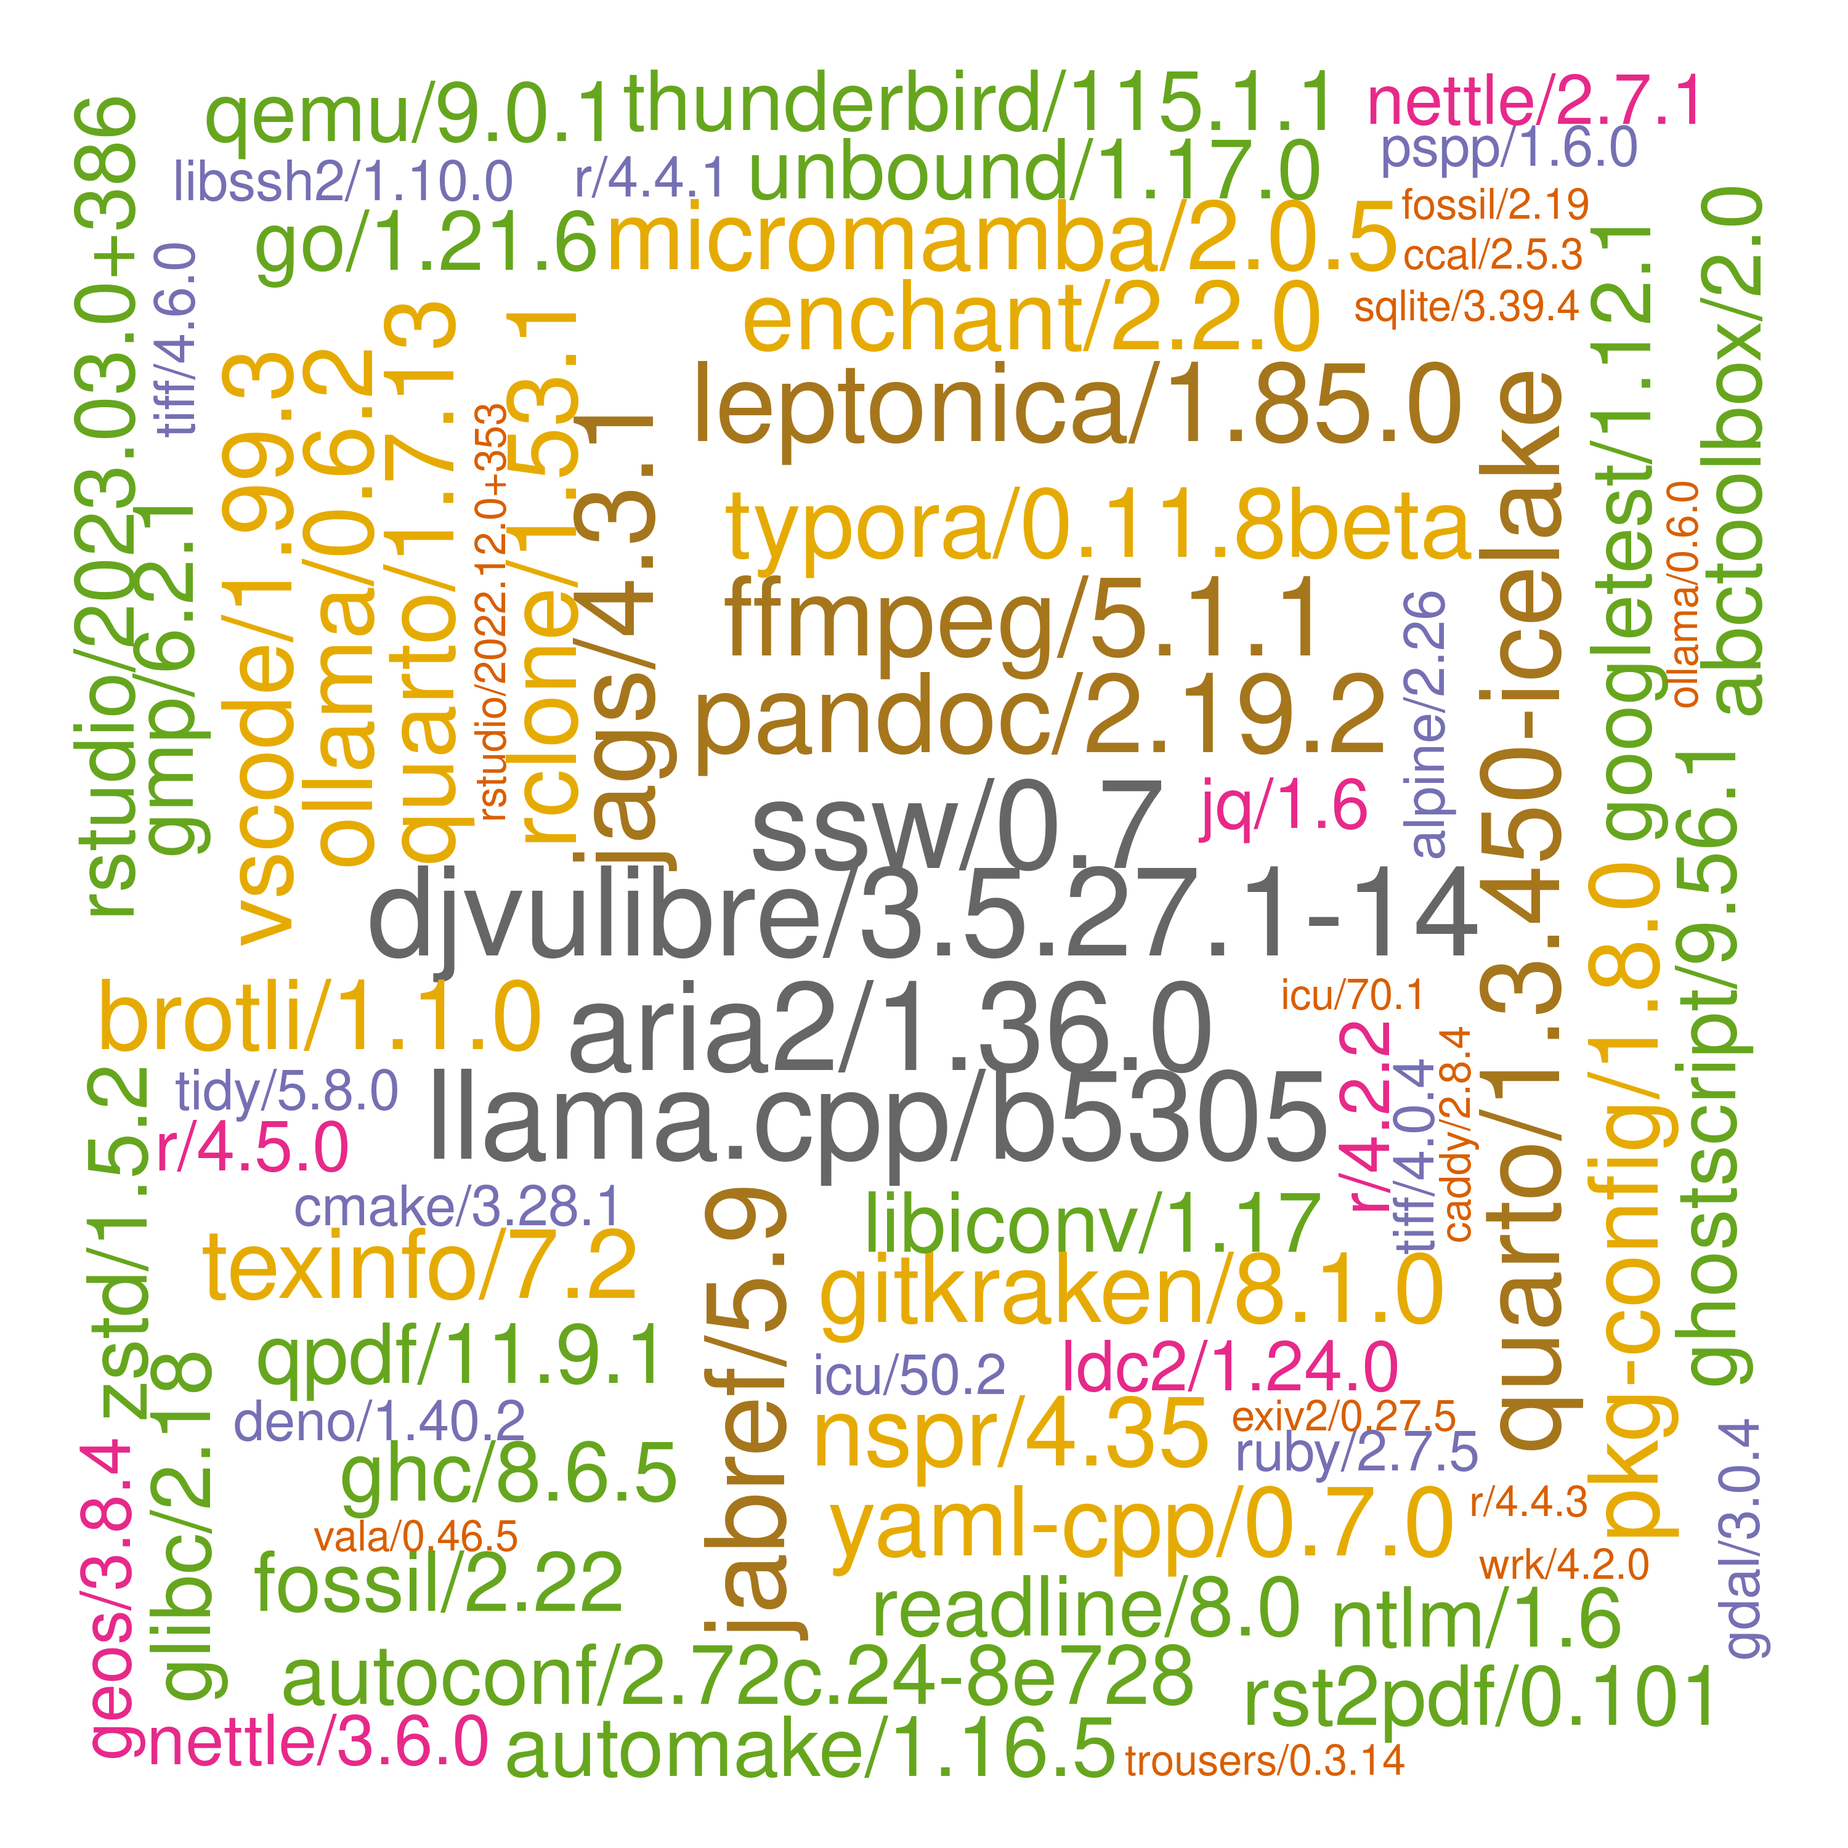
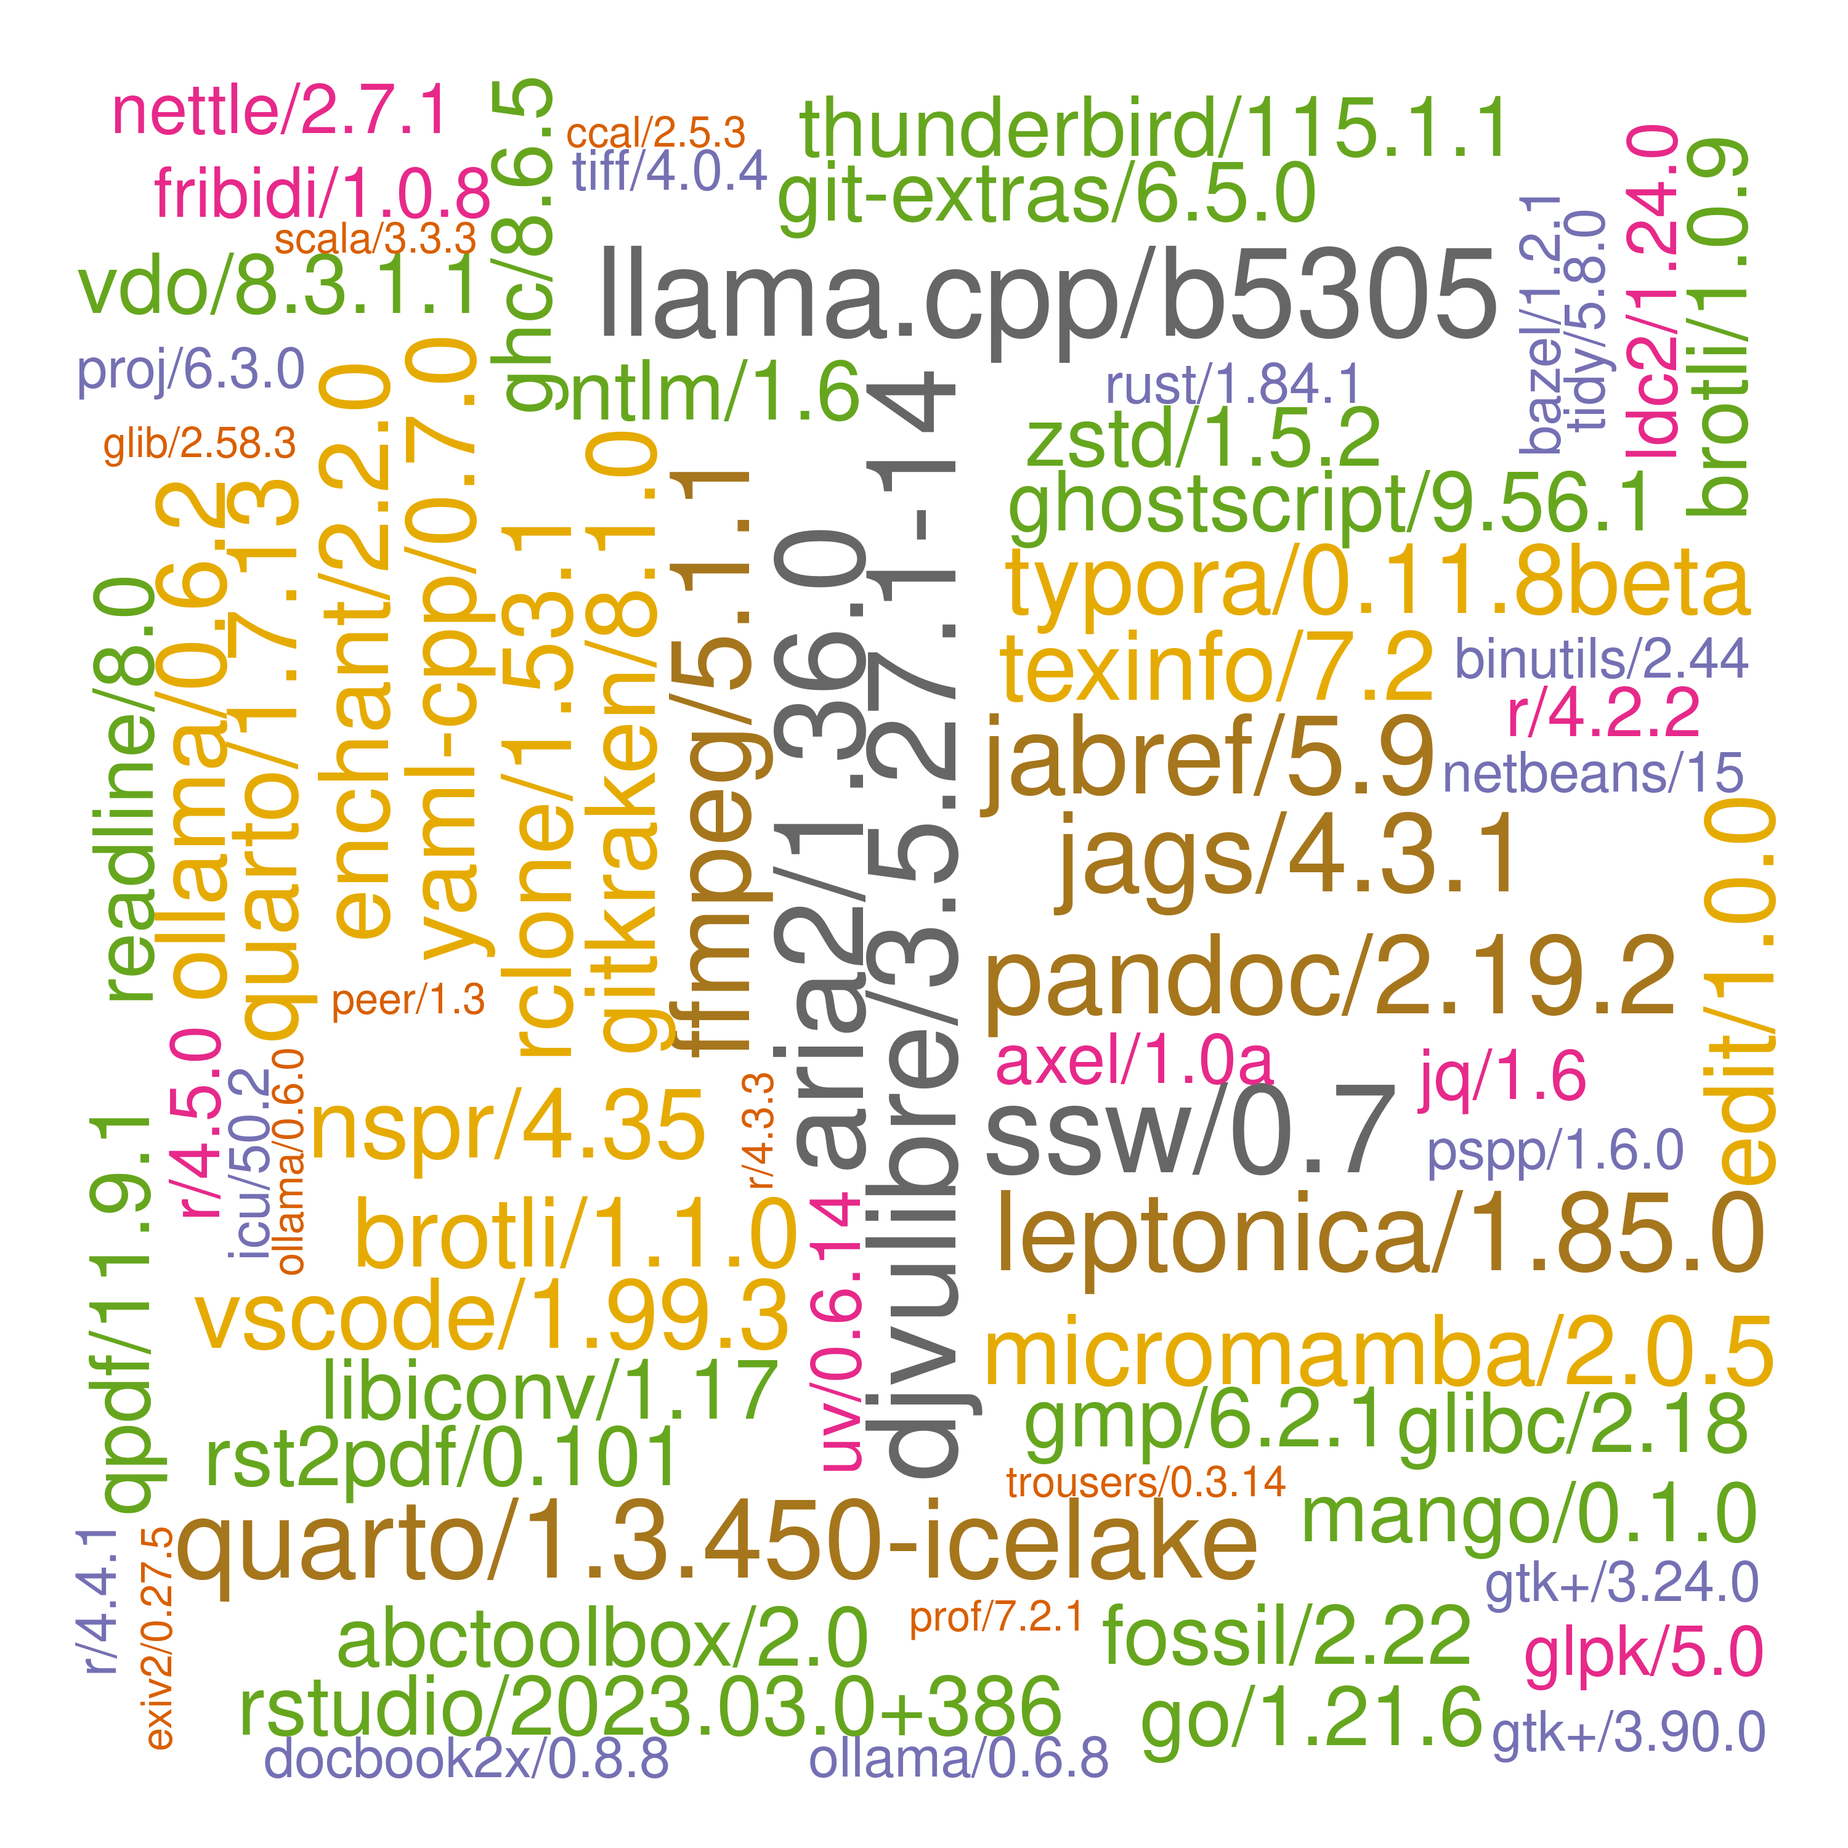
./

diff --git a/systems/ceuadmin.md b/systems/ceuadmin.md
@@ -30,69 +30,70 @@ The current list is as follows,
  [49] "Cytoscape"              "deno"                   "DEPICT"                 "device-mapper"
  [53] "diann"                  "DjVuLibre"              "docbook2X"              "docker"
  [57] "DosageConverter"        "dotnet"                 "DrugAssist"             "dump_syms"
- [61] "Eagle"                  "edge"                   "enchant"                "ensembl-vep"
- [65] "exiv2"                  "exomeplus"              "expat"                  "FastQTL"
- [69] "fcGENE"                 "ffmpeg"                 "fgwas"                  "findlib"
- [73] "finemap"                "firefox"                "FlashLFQ"               "fossil"
- [77] "fpc"                    "FragPipe"               "fraposa_pgsc"           "freesurfer"
- [81] "fribidi"                "GARFIELD"               "gatk"                   "gcta"
- [85] "gdal"                   "gdc"                    "geany"                  "GEM"
- [89] "GEMMA"                  "GENIE"                  "Genotype-Harmonizer"    "geos"
- [93] "gettext"                "gh"                     "ghc"                    "ghostscript"
- [97] "git"                    "git-extras"             "GitKraken"              "git-lfs"
-[101] "glib"                   "glibc"                  "globusconnectpersonal"  "glpk"
-[105] "gmp"                    "gnutls"                 "go"                     "googletest"
-[109] "graphene"               "GraphicsMagick"         "GreenAlgorithms4HPC"    "gsl"
-[113] "gtk+"                   "gtksourceview"          "gtool"                  "hivex"
-[117] "hpg"                    "htslib"                 "hunspell"               "icu"
-[121] "ImageJ"                 "ImageMagick"            "impute"                 "inetutils"
-[125] "InstaNovo"              "IonQuant"               "JabRef"                 "JAGS"
-[129] "jasper"                 "jq"                     "json-c"                 "KentUtils"
-[133] "KING"                   "kojak"                  "krb5"                   "lapack"
-[137] "ldc2"                   "ldsc"                   "LDstore"                "LEMMA"
-[141] "leptonica"              "lib64"                  "libarchive"             "libcares"
-[145] "libgcrypt"              "libgeotiff"             "libgit2"                "libglvnd"
-[149] "libiconv"               "libidn2"                "libjpeg-turbo"          "libntlm"
-[153] "libpng"                 "libseccomp"             "libsodium"              "libssh"
-[157] "libssh2"                "libuv"                  "libxml2"                "libxslt"
-[161] "linux"                  "llama.cpp"              "locuszoom"              "LVM2"
-[165] "MAGENTA"                "magma"                  "Mango"                  "MaxQuant"
-[169] "Mega2"                  "metal"                  "MetaMorpheus"           "micromamba"
-[173] "Miniconda3"             "MONSTER"                "MORGAN"                 "MR-MEGA"
-[177] "msamanda"               "MsCAVIAR"               "MSFragger"              "MS-GF+"
-[181] "msms"                   "nano"                   "nasm"                   "ncbi-vdb"
-[185] "ncurses"                "netbeans"               "nettle"                 "nextflow"
-[189] "nginx"                  "NLopt"                  "node"                   "nspr"
-[193] "ntlm"                   "ocaml"                  "ollama"                 "oniguruma"
-[197] "opam"                   "openjdk"                "OpenMS"                 "openssh"
-[201] "openssl"                "osca"                   "p7zip-zstd"             "PAINTOR"
-[205] "pandoc"                 "pandoc-citeproc"        "pango"                  "parallel"
-[209] "Pascal"                 "patchelf"               "pcre2"                  "pdf2djvu"
-[213] "pdfjam"                 "peer"                   "Perseus"                "pgsc_calc"
-[217] "PGS-CSx"                "phenoscanner"           "PhySO"                  "picard"
-[221] "pigz"                   "pkg-config"             "plink"                  "plink-bgi"
-[225] "plinkseq"               "podman"                 "PoGo"                   "polyphen"
-[229] "poppler"                "popt"                   "proj"                   "PRSice"
-[233] "pspp"                   "pulsar"                 "PWCoCo"                 "pwiz"
-[237] "qctool"                 "qemu"                   "qpdf"                   "qt"
-[241] "qtcreator"              "QTLtools"               "quarto"                 "quicktest"
-[245] "R"                      "raremetal"              "rclone"                 "readline"
-[249] "regenie"                "regtools"               "RHHsoftware"            "RSEM"
-[253] "rst2pdf"                "rstudio"                "rtmpdump"               "ruby"
-[257] "rust"                   "sage"                   "samtools"               "Scala"
-[261] "scGPT"                  "seqkit"                 "shapeit"                "singularity"
-[265] "SMR"                    "snakemake"              "SNP2HLA"                "snptest"
-[269] "spread-sheet-widget"    "spyder"                 "sqlite"                 "sra-tools"
-[273] "sshpass"                "ssw"                    "STAR"                   "stata"
-[277] "SurvivalAnalysis"       "SurvivalKit"            "SuSiEx"                 "Swift"
-[281] "SYMPHONY"               "Synapse"                "tabix"                  "tandem"
-[285] "tatami"                 "tesseract"              "texinfo"                "ThermoRawFileParser"
-[289] "ThermoRawFileParserGUI" "thunderbird"            "tidy"                   "tiff"
-[293] "trinculo"               "trousers"               "Typora"                 "unbound"
-[297] "uv"                     "vala"                   "VarScan"                "vcftools"
-[301] "VEGAS2"                 "verifyBamID"            "VSCode"                 "VSCodium"
-[305] "vte"                    "wine"                   "wrk"                    "xpdf"
-[309] "yaml-cpp"               "Zotero"                 "zstd"
+ [61] "Eagle"                  "edge"                   "edit"                   "enchant"
+ [65] "ensembl-vep"            "exiv2"                  "exomeplus"              "expat"
+ [69] "FastQTL"                "fcGENE"                 "ffmpeg"                 "fgwas"
+ [73] "findlib"                "finemap"                "firefox"                "FlashLFQ"
+ [77] "fossil"                 "fpc"                    "FragPipe"               "fraposa_pgsc"
+ [81] "freesurfer"             "fribidi"                "GARFIELD"               "gatk"
+ [85] "gcta"                   "gdal"                   "gdc"                    "geany"
+ [89] "GEM"                    "GEMMA"                  "GENIE"                  "Genotype-Harmonizer"
+ [93] "geos"                   "gettext"                "gh"                     "ghc"
+ [97] "ghostscript"            "git"                    "git-extras"             "GitKraken"
+[101] "git-lfs"                "glib"                   "glibc"                  "globusconnectpersonal"
+[105] "glpk"                   "gmp"                    "gnutls"                 "go"
+[109] "googletest"             "graphene"               "GraphicsMagick"         "GreenAlgorithms4HPC"
+[113] "gsl"                    "gtk+"                   "gtksourceview"          "gtool"
+[117] "hivex"                  "hpg"                    "htslib"                 "hunspell"
+[121] "icu"                    "ImageJ"                 "ImageMagick"            "impute"
+[125] "inetutils"              "InstaNovo"              "IonQuant"               "JabRef"
+[129] "JAGS"                   "jasper"                 "jq"                     "json-c"
+[133] "KentUtils"              "KING"                   "kojak"                  "krb5"
+[137] "lapack"                 "ldc2"                   "ldsc"                   "LDstore"
+[141] "LEMMA"                  "leptonica"              "lib64"                  "libarchive"
+[145] "libcares"               "libgcrypt"              "libgeotiff"             "libgit2"
+[149] "libglvnd"               "libiconv"               "libidn2"                "libjpeg-turbo"
+[153] "libntlm"                "libpng"                 "libseccomp"             "libsodium"
+[157] "libssh"                 "libssh2"                "libuv"                  "libxml2"
+[161] "libxslt"                "linux"                  "llama.cpp"              "locuszoom"
+[165] "LVM2"                   "MAGENTA"                "magma"                  "Mango"
+[169] "MaxQuant"               "Mega2"                  "metal"                  "MetaMorpheus"
+[173] "micromamba"             "Miniconda3"             "MONSTER"                "MORGAN"
+[177] "MR-MEGA"                "msamanda"               "MsCAVIAR"               "MSFragger"
+[181] "MS-GF+"                 "msms"                   "nano"                   "nasm"
+[185] "ncbi-vdb"               "ncurses"                "netbeans"               "nettle"
+[189] "nextflow"               "nginx"                  "NLopt"                  "node"
+[193] "nspr"                   "ntlm"                   "ocaml"                  "ollama"
+[197] "oniguruma"              "opam"                   "openjdk"                "OpenMS"
+[201] "openssh"                "openssl"                "osca"                   "p7zip-zstd"
+[205] "PAINTOR"                "pandoc"                 "pandoc-citeproc"        "pango"
+[209] "parallel"               "Pascal"                 "patchelf"               "pcre2"
+[213] "pdf2djvu"               "pdfjam"                 "peer"                   "Perseus"
+[217] "pgsc_calc"              "PGS-CSx"                "phenoscanner"           "PhySO"
+[221] "picard"                 "pigz"                   "pkg-config"             "plink"
+[225] "plink-bgi"              "plinkseq"               "podman"                 "PoGo"
+[229] "polyphen"               "poppler"                "popt"                   "proj"
+[233] "PRSice"                 "pspp"                   "pulsar"                 "PWCoCo"
+[237] "pwiz"                   "qctool"                 "qemu"                   "qpdf"
+[241] "qt"                     "qtcreator"              "QTLtools"               "quarto"
+[245] "quicktest"              "R"                      "raremetal"              "rclone"
+[249] "readline"               "regenie"                "regtools"               "RHHsoftware"
+[253] "RSEM"                   "rst2pdf"                "rstudio"                "rtmpdump"
+[257] "ruby"                   "rust"                   "sage"                   "samtools"
+[261] "Scala"                  "scGPT"                  "seqkit"                 "shapeit"
+[265] "singularity"            "SMR"                    "snakemake"              "SNP2HLA"
+[269] "snptest"                "spread-sheet-widget"    "spyder"                 "sqlite"
+[273] "sra-tools"              "sshpass"                "ssw"                    "STAR"
+[277] "stata"                  "SurvivalAnalysis"       "SurvivalKit"            "SuSiEx"
+[281] "Swift"                  "SYMPHONY"               "Synapse"                "tabix"
+[285] "tandem"                 "tatami"                 "tesseract"              "texinfo"
+[289] "ThermoRawFileParser"    "ThermoRawFileParserGUI" "thunderbird"            "tidy"
+[293] "tiff"                   "trinculo"               "trousers"               "Typora"
+[297] "unbound"                "uv"                     "vala"                   "VarScan"
+[301] "vcftools"               "vdo"                    "VEGAS2"                 "verifyBamID"
+[305] "VirtualBox"             "VSCode"                 "VSCodium"               "vte"
+[309] "wine"                   "wrk"                    "xpdf"                   "yaml-cpp"
+[313] "Zotero"                 "zstd"
 ```
 
 These are wrapped up as :star::star::star: **[modules](https://modules.readthedocs.io/en/latest/index.html)** :star::star::star:.

diff --git a/systems/setup.md b/systems/setup.md
@@ -421,6 +421,8 @@ All entries are ordered chronologically.
 | 2025-05-18  | VSCODE/1.100.2                   | Generic              |
 | 2025-05-19  | geany/2.0-icelake                | Generic              |
 | 2025-05-20  | vdo/8.3.1.1                      | Generic[^vdo]        |
+| 2025-05-22  | rust/nightly                     | Generic[^rust]       |
+| ""          | edit/1.0.0                       | Generic[^edit]       |
 
 \* CEU or approved users only.
 
@@ -1820,6 +1822,21 @@ They are generated from script [setup.sh](setup.sh),
     To avoid duplication, a symbolic link is generated on `/usr/local/Cluster-Apps/ceuadmin/rust/1.74.1/cargo` as `${HOME}/.cargo`.
     Naturally, both cargo and rustc use the directory above.
 
+    For `ceuadmin/nightly`, the following steps are needed,
+
+    ```bash
+    export CARGO_HOME="$CEUADMIN/rust/nightly/cargo"
+    export RUSTUP_HOME="$CEUADMIN/rust/nightly/rustup"
+    curl --proto '=https' --tlsv1.2 -sSf https://sh.rustup.rs | sh
+    export PATH="$CARGO_HOME/bin:$PATH"
+    rustup toolchain install nightly
+    rustup component add rust-src --toolchain nightly-x86_64-unknown-linux-gnu
+    rustup default nightly
+    rustc --version
+    ```
+
+    As of 22/5/2025, we have `rustc 1.89.0-nightly (bf64d66bd 2025-05-21)`.
+
 [^git2481]: **git/2.48.1**
 
     Now it has a separate entry in the Applications section, <https://cambridge-ceu.github.io/csd3/applications/git.html>.
@@ -2460,3 +2477,17 @@ They are generated from script [setup.sh](setup.sh),
     make
     make install
     ```
+
+[^edit]: **edit**
+
+    This is done as documented after `ceuadmin/rust/nightly`[^rust] is set up,
+
+    ```bash
+    wget -qO- https://github.com/microsoft/edit/archive/refs/tags/v1.0.0.tar.gz | \
+    tar xfz -
+    cd edit-1.0.0/
+    RUST_BACKTRACE=1
+    cargo build --config .cargo/release.toml --release
+    ```
+
+    We have `target/release/edit`.
